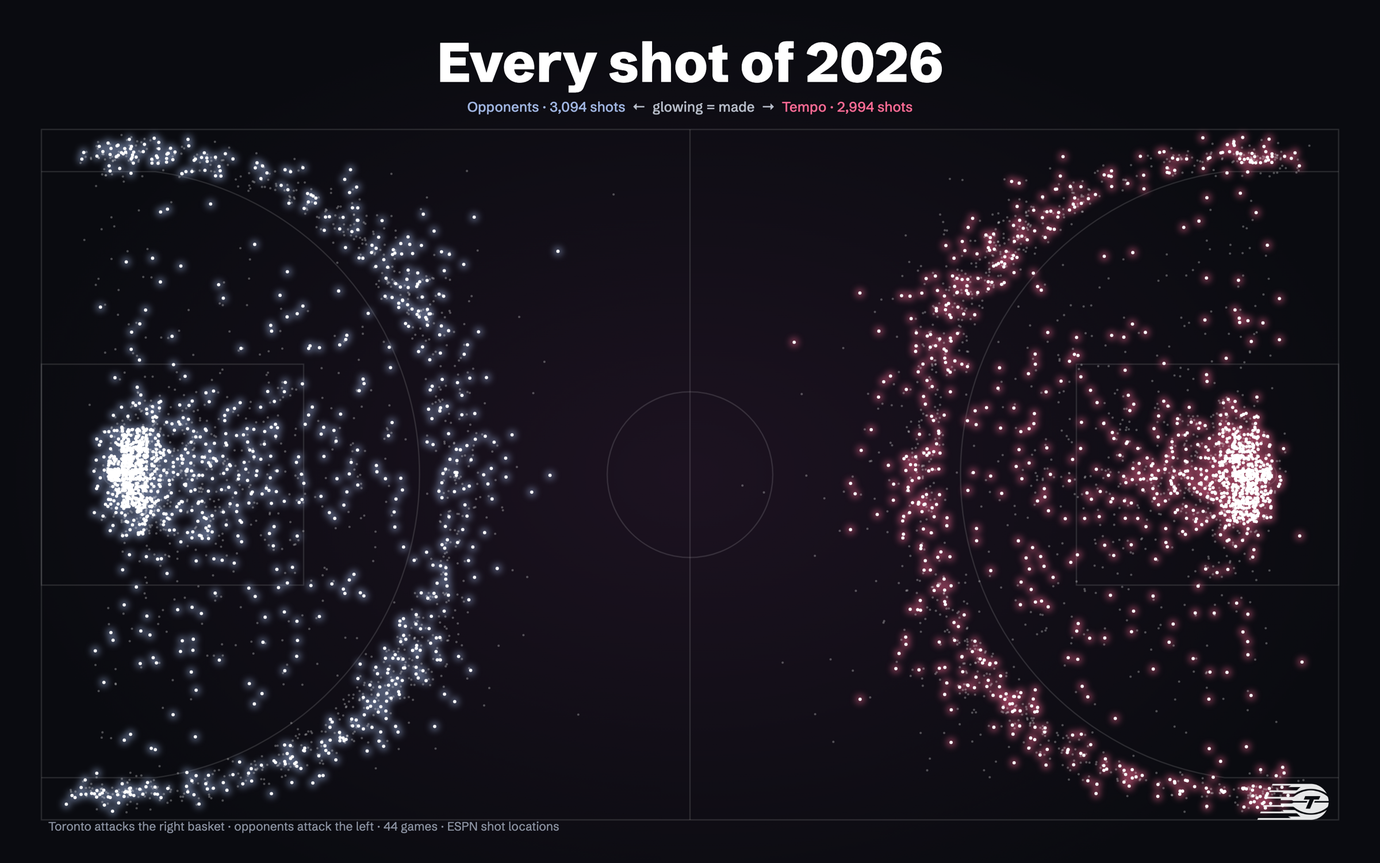
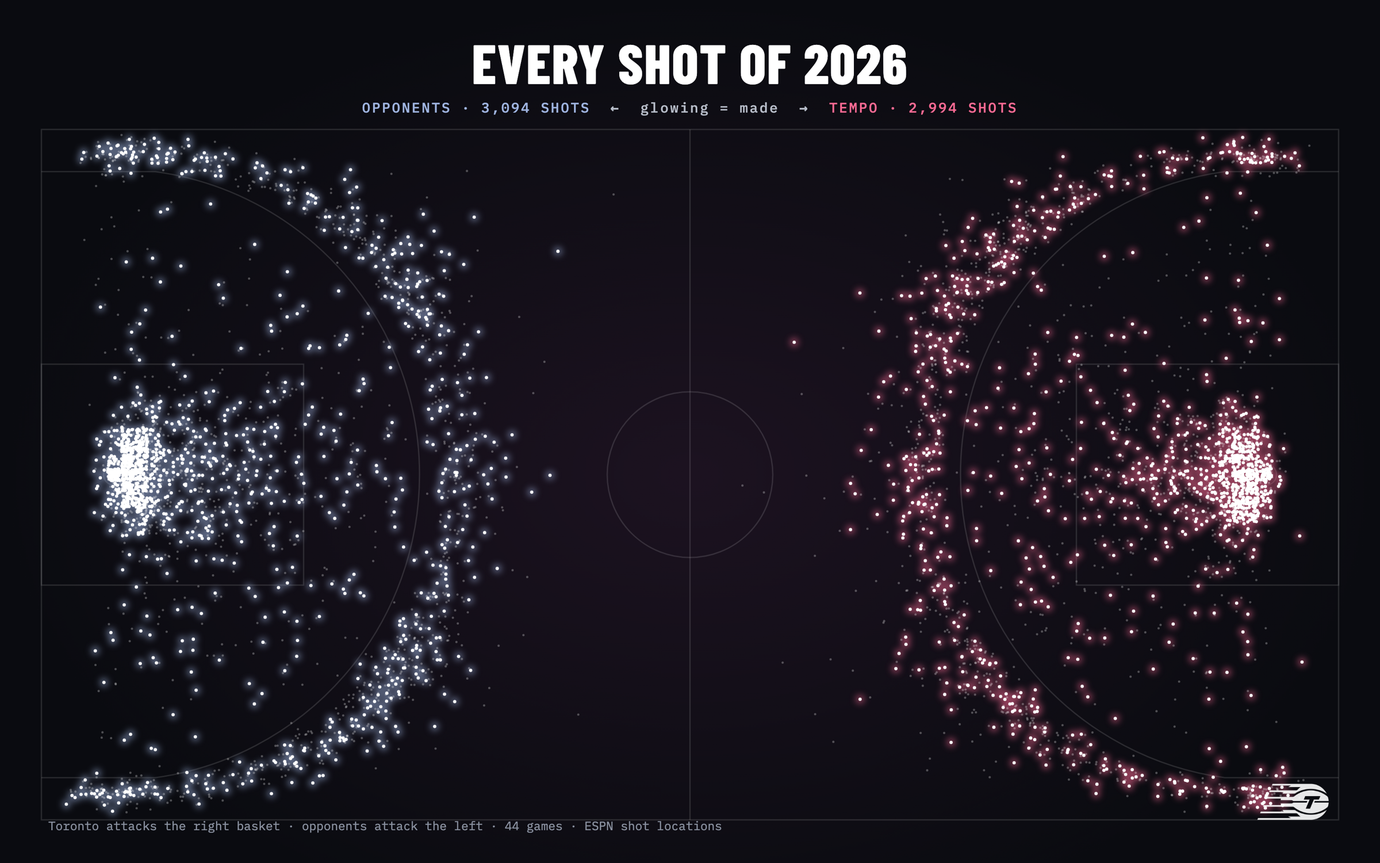
README posters: restore original styling and re-render with new Elo and board

diff --git a/readme_art/make_art.py b/readme_art/make_art.py
@@ -39,8 +39,8 @@ TOR = 131935  # ESPN's team id for the Toronto Tempo
 # team colours (same ones the website uses)
 BORDEAUX = "#8a1f42"
 NAVY = "#33476d"
-FONTS = ('<link rel="stylesheet" href="https://fonts.googleapis.com/css2?family=Schibsted+Grotesk:wght@400;500;600;700;800;900'
-         '&family=Newsreader:opsz,wght@6..72,400;6..72,500&display=swap">')
+FONTS = ('<link rel="stylesheet" href="https://fonts.googleapis.com/css2?family=Barlow+Condensed:wght@500;600;700;800'
+         '&family=Barlow:wght@400;500;600&family=IBM+Plex+Mono:wght@400;500&display=swap">')
 
 
 def render(name, html, width, height):
@@ -119,21 +119,21 @@ def banner():
                      f'fill="#fff" opacity="{opacity}"/>')
     svg = f'<svg width="{W}" height="{H}" style="position:absolute;inset:0">{"".join(lines)}</svg>'
     html = f"""
-    <div style="width:{W}px;height:{H}px;position:relative;overflow:hidden;font-family:'Schibsted Grotesk',sans-serif;color:#fff;
+    <div style="width:{W}px;height:{H}px;position:relative;overflow:hidden;font-family:Barlow,sans-serif;color:#fff;
                 background:linear-gradient(115deg,#140a10 0%,#3d0d1f 45%,{BORDEAUX} 100%)">
       {svg}
       <img src="{uri(LOGOS / 'tor_white.png')}" style="position:absolute;right:40px;top:150px;width:300px;opacity:.96">
       <div style="position:absolute;left:70px;top:70px;width:760px">
-        <div style="font:500 17px 'Schibsted Grotesk';opacity:.75">Toronto Tempo · WNBA 2026</div>
-        <div style="font:800 132px/0.95 'Schibsted Grotesk';letter-spacing:-0.045em;white-space:nowrap;margin-top:14px">Tempo Lab</div>
-        <div style="font:700 34px 'Schibsted Grotesk';margin-top:14px;color:#f3c1d1">
+        <div style="font:500 17px 'IBM Plex Mono';letter-spacing:.18em;opacity:.75">TORONTO TEMPO · WNBA 2026</div>
+        <div style="font:800 168px/0.9 'Barlow Condensed';letter-spacing:-.01em;margin-top:18px">TEMPO LAB</div>
+        <div style="font:700 34px 'Barlow Condensed';text-transform:uppercase;letter-spacing:.03em;margin-top:14px;color:#f3c1d1">
           Toronto's first season, broken down with data</div>
         <div style="display:flex;gap:12px;margin-top:34px">
-          {"".join(f'<span style="font:700 24px Schibsted Grotesk;padding:8px 16px;border:2px solid rgba(255,255,255,.55)">{t}</span>'
+          {"".join(f'<span style="font:700 24px Barlow Condensed;padding:8px 16px;border:2px solid rgba(255,255,255,.55)">{t}</span>'
                    for t in [f"{wins}–{losses}", f"Elo {summary['expansion-class']['tor_elo']}", "44 games", "6 interactive pages"])}
         </div>
       </div>
-      <div style="position:absolute;left:70px;bottom:26px;font:400 14px 'Schibsted Grotesk';opacity:.6">
+      <div style="position:absolute;left:70px;bottom:26px;font:400 14px 'IBM Plex Mono';opacity:.6">
         each streak = one game · length = points scored · bright = win</div>
     </div>"""
     render("banner", html, W, H)
@@ -171,32 +171,32 @@ def season_ring():
         parts.append(f'<image href="{uri(logo)}" x="{lx - 15:.1f}" y="{ly - 15:.1f}" width="30" height="30"/>')
         # score text just inside the logo ring
         tx, ty = cx + 470 * np.cos(a), cy + 470 * np.sin(a)
-        parts.append(f'<text x="{tx:.1f}" y="{ty + 4:.1f}" text-anchor="middle" font-family="Schibsted Grotesk" font-size="11" '
+        parts.append(f'<text x="{tx:.1f}" y="{ty + 4:.1f}" text-anchor="middle" font-family="IBM Plex Mono" font-size="11" '
                      f'fill="{"#c9d4ea" if g.margin > 0 else "#8a91a0"}">{g.team_score}-{g.opponent_team_score}</text>')
     # month labels inside the ring, placed at each month's first game
     seen = set()
     for i, g in games.iterrows():
-        mon = g.game_date.strftime("%b")
+        mon = g.game_date.strftime("%b").upper()
         if mon in seen:
             continue
         seen.add(mon)
         a = np.radians(-90 + i * 360 / n)
         mx, my = cx + 574 * np.cos(a), cy + 574 * np.sin(a)
-        parts.append(f'<text x="{mx:.1f}" y="{my + 5:.1f}" text-anchor="middle" font-family="Schibsted Grotesk" font-size="14" font-weight="500" fill="#d0587c">{mon.title()}</text>')
+        parts.append(f'<text x="{mx:.1f}" y="{my + 5:.1f}" text-anchor="middle" font-family="IBM Plex Mono" font-size="14" font-weight="500" fill="#d0587c">{mon}</text>')
     avg = games.margin.mean()
     html = f"""
-    <div style="width:{S}px;height:{HT}px;background:#12161d;position:relative;font-family:'Schibsted Grotesk',sans-serif;color:#eef0f4">
+    <div style="width:{S}px;height:{HT}px;background:#12161d;position:relative;font-family:Barlow,sans-serif;color:#eef0f4">
       <svg width="{S}" height="{HT}" style="position:absolute;inset:0">{"".join(parts)}</svg>
       <div style="position:absolute;left:0;right:0;top:{cy - 95}px;text-align:center">
         <img src="{uri(LOGOS / 'tor_white.png')}" style="width:120px;opacity:.95">
-        <div style="font:800 96px/0.95 'Schibsted Grotesk'">{wins}–{losses}</div>
-        <div style="font:500 15px 'Schibsted Grotesk';color:#8a91a0;margin-top:6px">Average margin {avg:+.1f}</div>
+        <div style="font:800 96px/0.95 'Barlow Condensed'">{wins}–{losses}</div>
+        <div style="font:500 15px 'IBM Plex Mono';letter-spacing:.14em;color:#8a91a0;margin-top:6px">AVG MARGIN {avg:+.1f}</div>
       </div>
       <div style="position:absolute;left:0;right:0;top:34px;text-align:center">
-        <div style="font:800 48px 'Schibsted Grotesk'">The season in a circle</div>
-        <div style="font:400 17px 'Schibsted Grotesk';color:#b7bdc9">Every Tempo game, clockwise from opening night. Each bar points toward the winner: in to the Tempo, out to the opponent. Longer bar = bigger margin.</div>
+        <div style="font:800 48px 'Barlow Condensed';text-transform:uppercase">The season in a circle</div>
+        <div style="font:400 17px Barlow;color:#b7bdc9">Every Tempo game, clockwise from opening night. Each bar points toward the winner: in to the Tempo, out to the opponent. Longer bar = bigger margin.</div>
       </div>
-      <div style="position:absolute;right:36px;bottom:30px;text-align:right;font:500 14px 'Schibsted Grotesk';color:#8a91a0">
+      <div style="position:absolute;right:36px;bottom:30px;text-align:right;font:500 14px 'IBM Plex Mono';color:#8a91a0">
         <span style="color:#7e9bd0">■</span> win &nbsp; <span style="color:#d0587c">■</span> loss</div>
     </div>"""
     render("season-circle", html, S, HT)
@@ -249,31 +249,31 @@ def player_cards():
         stats = [("PPG", f"{r.pts / r.gp:.1f}"), ("RPG", f"{r.reb / r.gp:.1f}"), ("APG", f"{r.ast / r.gp:.1f}"), ("TS%", f"{100 * r.ts:.1f}")]
         cards.append(f"""
         <div style="width:350px;height:720px;background:#fff;border-radius:18px;overflow:hidden;box-shadow:0 18px 40px rgba(0,0,0,.35);
-                    position:relative;font-family:'Schibsted Grotesk',sans-serif;color:#12161d">
+                    position:relative;font-family:Barlow,sans-serif;color:#12161d">
           <div style="height:330px;position:relative;background:linear-gradient(160deg,{BORDEAUX},#3d0d1f);overflow:hidden">
-            <div style="position:absolute;right:-10px;top:-30px;font:800 230px/1 'Schibsted Grotesk';color:rgba(255,255,255,.12)">{r.jersey}</div>
+            <div style="position:absolute;right:-10px;top:-30px;font:800 230px/1 'Barlow Condensed';color:rgba(255,255,255,.12)">{r.jersey}</div>
             {"".join(f'<div style="position:absolute;left:0;top:{40 + j * 22}px;height:6px;width:{120 + (j * 37) % 90}px;background:rgba(255,255,255,.18);border-radius:3px"></div>' for j in range(6))}
             <img src="{uri(HEADS / (last.lower() + '.png'))}" style="position:absolute;left:50%;bottom:0;transform:translateX(-50%);height:300px">
             <img src="{uri(LOGOS / 'tor_white.png')}" style="position:absolute;left:18px;top:16px;width:64px">
             <div style="position:absolute;left:0;right:0;bottom:0;height:70px;background:linear-gradient(transparent,rgba(20,10,16,.85))"></div>
-            <div style="position:absolute;left:20px;bottom:14px;color:#fff;font:700 15px 'Schibsted Grotesk';">#{r.jersey} · {r.pos}</div>
+            <div style="position:absolute;left:20px;bottom:14px;color:#fff;font:700 15px 'IBM Plex Mono';letter-spacing:.1em">#{r.jersey} · {r.pos}</div>
           </div>
           <div style="padding:16px 20px 0">
-            <div style="font:600 13px 'Schibsted Grotesk';color:{BORDEAUX}">{tag}</div>
-            <div style="font:800 40px/1 'Schibsted Grotesk';margin-top:4px">{name}</div>
+            <div style="font:600 13px 'IBM Plex Mono';letter-spacing:.12em;color:{BORDEAUX};text-transform:uppercase">{tag}</div>
+            <div style="font:800 40px/1 'Barlow Condensed';text-transform:uppercase;margin-top:4px">{name}</div>
             <div style="display:grid;grid-template-columns:repeat(4,1fr);margin-top:14px;border-top:2px solid #12161d">
-              {"".join(f'<div style="padding-top:8px"><div style="font:800 30px/1 Schibsted Grotesk">{v}</div><div style="font:500 12px Schibsted Grotesk;color:#7a8191">{k}</div></div>' for k, v in stats)}
+              {"".join(f'<div style="padding-top:8px"><div style="font:800 30px/1 Barlow Condensed">{v}</div><div style="font:500 12px IBM Plex Mono;color:#7a8191">{k}</div></div>' for k, v in stats)}
             </div>
             <div style="margin-top:10px">{mini_hexes(name)}</div>
-            <div style="font:400 12px 'Schibsted Grotesk';color:#7a8191">{int(r.gp)} games · {r.mins / r.gp:.1f} min · {len(shots[shots.athlete_name_1 == name])} shots charted</div>
+            <div style="font:400 12px 'IBM Plex Mono';color:#7a8191">{int(r.gp)} games · {r.mins / r.gp:.1f} min · {len(shots[shots.athlete_name_1 == name])} shots charted</div>
           </div>
-          <div style="position:absolute;right:18px;top:346px;font:700 13px 'Schibsted Grotesk';color:#c9ced8">{i + 1:02d}/04</div>
+          <div style="position:absolute;right:18px;top:346px;font:700 13px 'IBM Plex Mono';color:#c9ced8">{i + 1:02d}/04</div>
         </div>""")
     html = f"""
     <div style="width:1600px;height:900px;background:radial-gradient(circle at 30% 20%,#2b1420,#0f1217 70%);display:flex;flex-direction:column;
                 align-items:center;justify-content:center;gap:26px">
-      <div style="font:800 46px 'Schibsted Grotesk';color:#fff;">The 2026 Tempo card set
-        <span style="font:500 16px 'Schibsted Grotesk';color:#b7bdc9;margin-left:14px">hex = where she shoots · darker = more makes</span></div>
+      <div style="font:800 46px 'Barlow Condensed';color:#fff;letter-spacing:.02em;text-transform:uppercase">The 2026 Tempo card set
+        <span style="font:500 16px 'IBM Plex Mono';color:#b7bdc9;letter-spacing:.1em;margin-left:14px">hex = where she shoots · darker = more makes</span></div>
       <div style="display:flex;gap:28px">{"".join(cards)}</div>
     </div>"""
     render("player-cards", html, 1600, 900)
@@ -300,14 +300,14 @@ def by_the_numbers():
     cells = "".join(f"""
       <div style="grid-column:span {span};background:{bg};color:{fg};padding:26px 30px;display:flex;flex-direction:column;justify-content:flex-end;
                   border-radius:6px;min-height:318px">
-        <div style="font:800 {150 if span == 2 else 112}px/0.85 'Schibsted Grotesk';letter-spacing:-.02em">{big}</div>
-        <div style="font:600 21px 'Schibsted Grotesk';margin-top:12px;opacity:.85">{small}</div>
+        <div style="font:800 {150 if span == 2 else 112}px/0.85 'Barlow Condensed';letter-spacing:-.02em">{big}</div>
+        <div style="font:600 21px Barlow;margin-top:12px;opacity:.85">{small}</div>
       </div>""" for big, small, bg, fg, span in tiles)
     html = f"""
-    <div style="width:1600px;height:900px;background:#f5f6f8;padding:40px;box-sizing:border-box;font-family:'Schibsted Grotesk',sans-serif">
+    <div style="width:1600px;height:900px;background:#f5f6f8;padding:40px;box-sizing:border-box;font-family:Barlow,sans-serif">
       <div style="display:flex;justify-content:space-between;align-items:end;margin-bottom:22px">
-        <div style="font:800 64px/1 'Schibsted Grotesk';color:#12161d">Tempo by the numbers</div>
-        <div style="font:500 16px 'Schibsted Grotesk';color:#7a8191;">2026 regular season</div>
+        <div style="font:800 64px/1 'Barlow Condensed';text-transform:uppercase;color:#12161d">Tempo by the numbers</div>
+        <div style="font:500 16px 'IBM Plex Mono';color:#7a8191;letter-spacing:.1em">2026 REGULAR SEASON</div>
       </div>
       <div style="display:grid;grid-template-columns:repeat(4,1fr);gap:16px">{cells}</div>
     </div>"""
@@ -355,7 +355,7 @@ def elo_race():
         side.set_visible(False)
     ax.grid(axis="y", color="#222833")
     ax.set_xlabel("game number in year one", color="#8a91a0")
-    ax.text(0, 1.06, "The expansion Elo race", transform=ax.transAxes, color="#eef0f4", fontsize=20, fontweight="bold")
+    ax.text(0, 1.06, "THE EXPANSION ELO RACE", transform=ax.transAxes, color="#eef0f4", fontsize=20, fontweight="bold")
     ax.text(0, 1.015, "new teams start at 1300 · league average is 1500", transform=ax.transAxes, color="#8a91a0", fontsize=10)
     counter = ax.text(0.98, 0.93, "", transform=ax.transAxes, ha="right", color="#eef0f4", fontsize=26, fontweight="bold")
     labels = {k: ax.text(0, 0, "", color=c, fontsize=10, fontweight="bold") for k, _, _, c, _ in teams}
@@ -440,7 +440,7 @@ def constellation():
     tor_n = int((s2.team_id == TOR).sum())
     opp_n = len(s2) - tor_n
     html = f"""
-    <div style="width:{W}px;height:{H}px;position:relative;font-family:'Schibsted Grotesk',sans-serif;color:#fff;
+    <div style="width:{W}px;height:{H}px;position:relative;font-family:Barlow,sans-serif;color:#fff;
                 background:radial-gradient(ellipse at 50% 55%,#1c1220 0%,#0a0b10 70%)">
       <svg width="{W}" height="{H}" style="position:absolute;inset:0">
         <defs><filter id="glow" x="-50%" y="-50%" width="200%" height="200%"><feGaussianBlur stdDeviation="4"/></filter></defs>
@@ -449,12 +449,12 @@ def constellation():
         {"".join(dots)}
       </svg>
       <div style="position:absolute;left:0;right:0;top:40px;text-align:center">
-        <div style="font:800 64px/1 'Schibsted Grotesk';">Every shot of 2026</div>
-        <div style="font:500 16px 'Schibsted Grotesk';color:#b7bdc9;margin-top:10px">
-          <span style="color:#9fb4e0">Opponents · {opp_n:,} shots</span> &nbsp;←&nbsp; glowing = made &nbsp;→&nbsp; <span style="color:#ff6b95">Tempo · {tor_n:,} shots</span></div>
+        <div style="font:800 64px/1 'Barlow Condensed';letter-spacing:.02em">EVERY SHOT OF 2026</div>
+        <div style="font:500 16px 'IBM Plex Mono';letter-spacing:.12em;color:#b7bdc9;margin-top:10px">
+          <span style="color:#9fb4e0">OPPONENTS · {opp_n:,} SHOTS</span> &nbsp;←&nbsp; glowing = made &nbsp;→&nbsp; <span style="color:#ff6b95">TEMPO · {tor_n:,} SHOTS</span></div>
       </div>
       <img src="{uri(LOGOS / 'tor_white.png')}" style="position:absolute;right:56px;bottom:26px;width:90px;opacity:.9">
-      <div style="position:absolute;left:56px;bottom:34px;font:400 14px 'Schibsted Grotesk';color:#8a91a0">
+      <div style="position:absolute;left:56px;bottom:34px;font:400 14px 'IBM Plex Mono';color:#8a91a0">
         Toronto attacks the right basket · opponents attack the left · 44 games · ESPN shot locations</div>
     </div>"""
     render("constellation", html, W, H)
@@ -486,18 +486,18 @@ def ridgeline():
         layers.append(f'<polygon points="{left},{base + 60} {pts} {right},{base + 60}" fill="#0a0b10"/>'
                       f'<polyline points="{pts}" fill="none" stroke="{stroke}" stroke-width="{2.2 if win else 1.6}" stroke-linejoin="round"/>')
         # small label on the left: opponent and result
-        layers.append(f'<text x="{left - 14}" y="{base + 4}" text-anchor="end" font-family="Schibsted Grotesk" font-size="11" '
-                      f'fill="{"#ff6b95" if win else "#5d6472"}">{g.game_date.strftime("%b %-d")} {g.opponent_team_abbreviation} '
+        layers.append(f'<text x="{left - 14}" y="{base + 4}" text-anchor="end" font-family="IBM Plex Mono" font-size="11" '
+                      f'fill="{"#ff6b95" if win else "#5d6472"}">{g.game_date.strftime("%b %-d").upper()} {g.opponent_team_abbreviation} '
                       f'{g.team_score}-{g.opponent_team_score}</text>')
     html = f"""
-    <div style="width:{W}px;height:{H}px;background:#0a0b10;position:relative;color:#eef0f4;font-family:'Schibsted Grotesk',sans-serif">
+    <div style="width:{W}px;height:{H}px;background:#0a0b10;position:relative;color:#eef0f4;font-family:Barlow,sans-serif">
       <svg width="{W}" height="{H}" style="position:absolute;inset:0">{"".join(layers)}</svg>
       <div style="position:absolute;left:0;right:0;top:70px;text-align:center">
-        <div style="font:800 72px/1 'Schibsted Grotesk';">Unknown Pressures</div>
-        <div style="font:500 15px 'Schibsted Grotesk';color:#8a91a0;margin-top:12px">
-          Toronto Tempo · 2026 · 44 games · tip-off to final buzzer</div>
+        <div style="font:800 72px/1 'Barlow Condensed';letter-spacing:.08em">UNKNOWN PRESSURES</div>
+        <div style="font:500 15px 'IBM Plex Mono';letter-spacing:.14em;color:#8a91a0;margin-top:12px">
+          TORONTO TEMPO · 2026 · 44 GAMES · TIP-OFF TO FINAL BUZZER</div>
       </div>
-      <div style="position:absolute;left:0;right:0;bottom:44px;text-align:center;font:400 14px 'Schibsted Grotesk';color:#8a91a0">
+      <div style="position:absolute;left:0;right:0;bottom:44px;text-align:center;font:400 14px 'IBM Plex Mono';color:#8a91a0">
         each line is one game's score margin · peaks = Toronto leading · <span style="color:#ff6b95">pink = win</span></div>
     </div>"""
     render("ridgeline", html, W, H)
@@ -550,30 +550,30 @@ def rotation_ring():
                 parts.append(f'<path d="M {px - 4} {py - 4} L {px + 4} {py + 4} M {px + 4} {py - 4} L {px - 4} {py + 4}" stroke="#7e9bd0" stroke-width="1.6"/>')
         # player's last name in the gap at the top
         ny = cy - (r_in + r_out) / 2 + 4
-        parts.append(f'<text x="{cx}" y="{ny:.1f}" text-anchor="middle" font-family="Schibsted Grotesk" font-weight="700" '
-                     f'font-size="13" fill="#d7dbe2" >{name.split()[-1]}</text>')
+        parts.append(f'<text x="{cx}" y="{ny:.1f}" text-anchor="middle" font-family="Barlow Condensed" font-weight="700" '
+                     f'font-size="13" fill="#d7dbe2" letter-spacing="0.5">{name.split()[-1].upper()}</text>')
     # month labels around the outside
     seen = set()
     for i, g in games.iterrows():
-        mon = g.game_date.strftime("%b")
+        mon = g.game_date.strftime("%b").upper()
         if mon in seen:
             continue
         seen.add(mon)
         a = np.radians(gap_deg / 2 + i * span - 90)
         rr = r0 + len(order) * ring + 26
         parts.append(f'<text x="{cx + rr * np.cos(a):.1f}" y="{cy + rr * np.sin(a) + 5:.1f}" text-anchor="middle" '
-                     f'font-family="Schibsted Grotesk" font-size="15" fill="#ff6b95">{mon.title()}</text>')
+                     f'font-family="IBM Plex Mono" font-size="15" fill="#ff6b95">{mon}</text>')
     lineups = summary["rotation-lab"]["lineups"]
     html = f"""
-    <div style="width:{S}px;height:{S + 80}px;background:#0f1217;position:relative;color:#eef0f4;font-family:'Schibsted Grotesk',sans-serif">
+    <div style="width:{S}px;height:{S + 80}px;background:#0f1217;position:relative;color:#eef0f4;font-family:Barlow,sans-serif">
       <svg width="{S}" height="{S + 80}" style="position:absolute;inset:0">{"".join(parts)}</svg>
       <div style="position:absolute;left:0;right:0;top:{cy - 70}px;text-align:center">
-        <div style="font:800 110px/0.9 'Schibsted Grotesk'">{lineups}</div>
-        <div style="font:500 14px 'Schibsted Grotesk';color:#8a91a0">starting lineups</div>
+        <div style="font:800 110px/0.9 'Barlow Condensed'">{lineups}</div>
+        <div style="font:500 14px 'IBM Plex Mono';letter-spacing:.14em;color:#8a91a0">STARTING LINEUPS</div>
       </div>
       <div style="position:absolute;left:44px;top:36px">
-        <div style="font:800 50px 'Schibsted Grotesk'">The rotation ring</div>
-        <div style="font:400 17px 'Schibsted Grotesk';color:#b7bdc9;max-width:420px">Each ring is a player and each slice is a game, clockwise from opening night. Brighter = more minutes. <span style="color:#7e9bd0">✕ = missed through injury or illness.</span></div>
+        <div style="font:800 50px 'Barlow Condensed';text-transform:uppercase">The rotation ring</div>
+        <div style="font:400 17px Barlow;color:#b7bdc9;max-width:420px">Each ring is a player and each slice is a game, clockwise from opening night. Brighter = more minutes. <span style="color:#7e9bd0">✕ = missed through injury or illness.</span></div>
       </div>
       <img src="{uri(LOGOS / 'tor_white.png')}" style="position:absolute;right:44px;top:44px;width:110px;opacity:.9">
     </div>"""
@@ -630,17 +630,17 @@ def shot_fans():
         cards.append(f"""
         <div style="background:#151920;border:1px solid #232934;border-radius:14px;padding:18px 18px 14px;display:grid;gap:4px">
           <svg width="{W2}" height="{H2}">{guide}{"".join(paths)}</svg>
-          <div style="font:800 26px/1 'Schibsted Grotesk';margin-top:6px">{name}</div>
-          <div style="font:400 13px 'Schibsted Grotesk';color:#8a91a0">#{r.jersey} · {len(s)} shots · {100 * r.ts:.1f} TS%</div>
+          <div style="font:800 26px/1 'Barlow Condensed';text-transform:uppercase;margin-top:6px">{name}</div>
+          <div style="font:400 13px 'IBM Plex Mono';color:#8a91a0">#{r.jersey} · {len(s)} shots · {100 * r.ts:.1f} TS%</div>
         </div>""")
     legend = "".join(f'<span style="display:inline-flex;align-items:center;gap:8px"><i style="width:14px;height:14px;background:{c};display:inline-block;border-radius:3px"></i>{n}</span>'
                      for n, c, _, _ in bands)
     html = f"""
-    <div style="width:1600px;height:900px;background:#0f1217;color:#eef0f4;font-family:'Schibsted Grotesk',sans-serif;padding:44px 60px;box-sizing:border-box">
+    <div style="width:1600px;height:900px;background:#0f1217;color:#eef0f4;font-family:Barlow,sans-serif;padding:44px 60px;box-sizing:border-box">
       <div style="display:flex;justify-content:space-between;align-items:end;margin-bottom:26px">
-        <div><div style="font:800 56px/1 'Schibsted Grotesk'">Shot fans</div>
-        <div style="font:400 17px 'Schibsted Grotesk';color:#b7bdc9;margin-top:6px">Each fan opens from the basket. Petal = direction, length = share of her shots, colour = distance.</div></div>
-        <div style="display:flex;gap:22px;font:500 15px 'Schibsted Grotesk';color:#d7dbe2">{legend}</div>
+        <div><div style="font:800 56px/1 'Barlow Condensed';text-transform:uppercase">Shot fans</div>
+        <div style="font:400 17px Barlow;color:#b7bdc9;margin-top:6px">Each fan opens from the basket. Petal = direction, length = share of her shots, colour = distance.</div></div>
+        <div style="display:flex;gap:22px;font:500 15px 'IBM Plex Mono';color:#d7dbe2">{legend}</div>
       </div>
       <div style="display:grid;grid-template-columns:repeat(4,1fr);gap:20px">{"".join(cards)}</div>
     </div>"""
@@ -664,22 +664,22 @@ def big_board():
         img = f'<img src="{p["img"]}" style="width:100%;height:100%;object-fit:cover;object-position:top">' if p["img"] else ""
         cards.append(f"""
         <div style="background:#151920;border:1px solid #232934;border-radius:16px;padding:18px;display:grid;gap:10px;position:relative;overflow:hidden">
-          <div style="position:absolute;right:12px;top:-6px;font:800 92px/1 'Schibsted Grotesk';color:rgba(255,107,149,.14)">{i}</div>
+          <div style="position:absolute;right:12px;top:-6px;font:800 92px/1 'Barlow Condensed';color:rgba(255,107,149,.14)">{i}</div>
           <div style="width:96px;height:96px;border-radius:50%;overflow:hidden;background:#2a303b;border:3px solid #ff6b95">{img}</div>
-          <div><div style="font:800 26px/1 'Schibsted Grotesk'">{p['name']}</div>
-          <div style="font:400 13px 'Schibsted Grotesk';color:#8a91a0;margin-top:4px">{p['school']}</div>
-          <div style="font:400 13px 'Schibsted Grotesk';color:#8a91a0">{p['pos']} · {ht} · BPM {p['bpm']}</div></div>
-          <div style="display:grid;grid-template-columns:52px 1fr;gap:6px 8px;align-items:center;font:500 12px 'Schibsted Grotesk';color:#b7bdc9">
+          <div><div style="font:800 26px/1 'Barlow Condensed';text-transform:uppercase">{p['name']}</div>
+          <div style="font:400 13px 'IBM Plex Mono';color:#8a91a0;margin-top:4px">{p['school']}</div>
+          <div style="font:400 13px 'IBM Plex Mono';color:#8a91a0">{p['pos']} · {ht} · BPM {p['bpm']}</div></div>
+          <div style="display:grid;grid-template-columns:52px 1fr;gap:6px 8px;align-items:center;font:500 12px 'IBM Plex Mono';color:#b7bdc9">
             <span>TALENT</span><span style="height:8px;background:#2a303b"><i style="display:block;height:8px;width:{p['talent']}%;background:#7e9bd0"></i></span>
             <span>FIT</span><span style="height:8px;background:#2a303b"><i style="display:block;height:8px;width:{p['fit']}%;background:#ff6b95"></i></span>
           </div>
-          <div style="font:500 13px 'Schibsted Grotesk';color:#d7dbe2">{p['pts']} pts · {p['reb']} reb · {p['blk']} blk</div>
+          <div style="font:500 13px 'IBM Plex Mono';color:#d7dbe2">{p['pts']} pts · {p['reb']} reb · {p['blk']} blk</div>
         </div>""")
     html = f"""
-    <div style="width:1600px;height:850px;background:radial-gradient(circle at 80% 0%,#2b1420,#0f1217 60%);color:#eef0f4;font-family:'Schibsted Grotesk',sans-serif;padding:44px 56px;box-sizing:border-box">
+    <div style="width:1600px;height:850px;background:radial-gradient(circle at 80% 0%,#2b1420,#0f1217 60%);color:#eef0f4;font-family:Barlow,sans-serif;padding:44px 56px;box-sizing:border-box">
       <div style="display:flex;justify-content:space-between;align-items:end;margin-bottom:26px">
-        <div><div style="font:800 64px/1 'Schibsted Grotesk'">The 2027 big board</div>
-        <div style="font:400 18px 'Schibsted Grotesk';color:#b7bdc9;margin-top:8px">Toronto's top 10 college seniors, weighted 60% talent and 40% fit for what the Tempo need: rim protection, defensive rebounding and defense.</div></div>
+        <div><div style="font:800 64px/1 'Barlow Condensed';text-transform:uppercase">The 2027 big board</div>
+        <div style="font:400 18px Barlow;color:#b7bdc9;margin-top:8px">Toronto's top 10 college seniors, weighted 60% talent and 40% fit for what the Tempo need: rim protection, defensive rebounding and defense.</div></div>
         <img src="{uri(LOGOS / 'tor_white.png')}" style="width:120px;opacity:.9">
       </div>
       <div style="display:grid;grid-template-columns:repeat(5,1fr);gap:18px">{"".join(cards)}</div>
